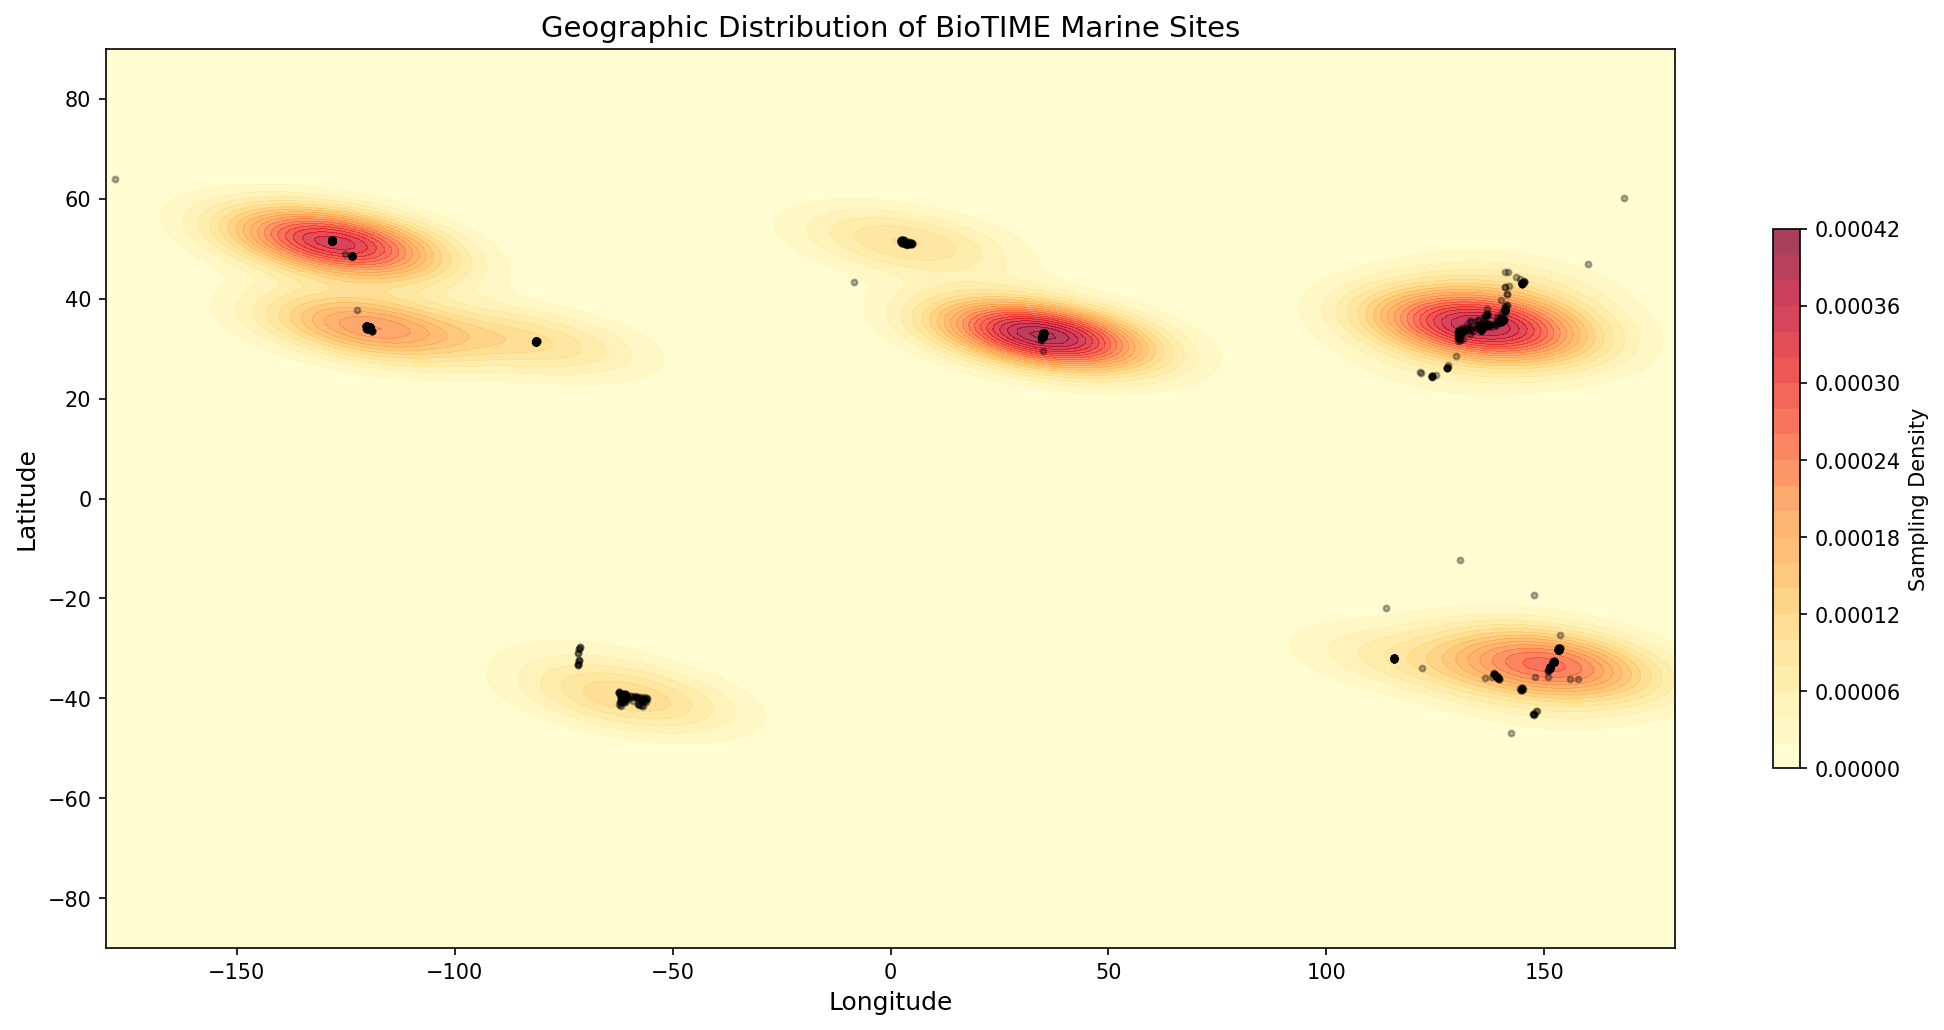
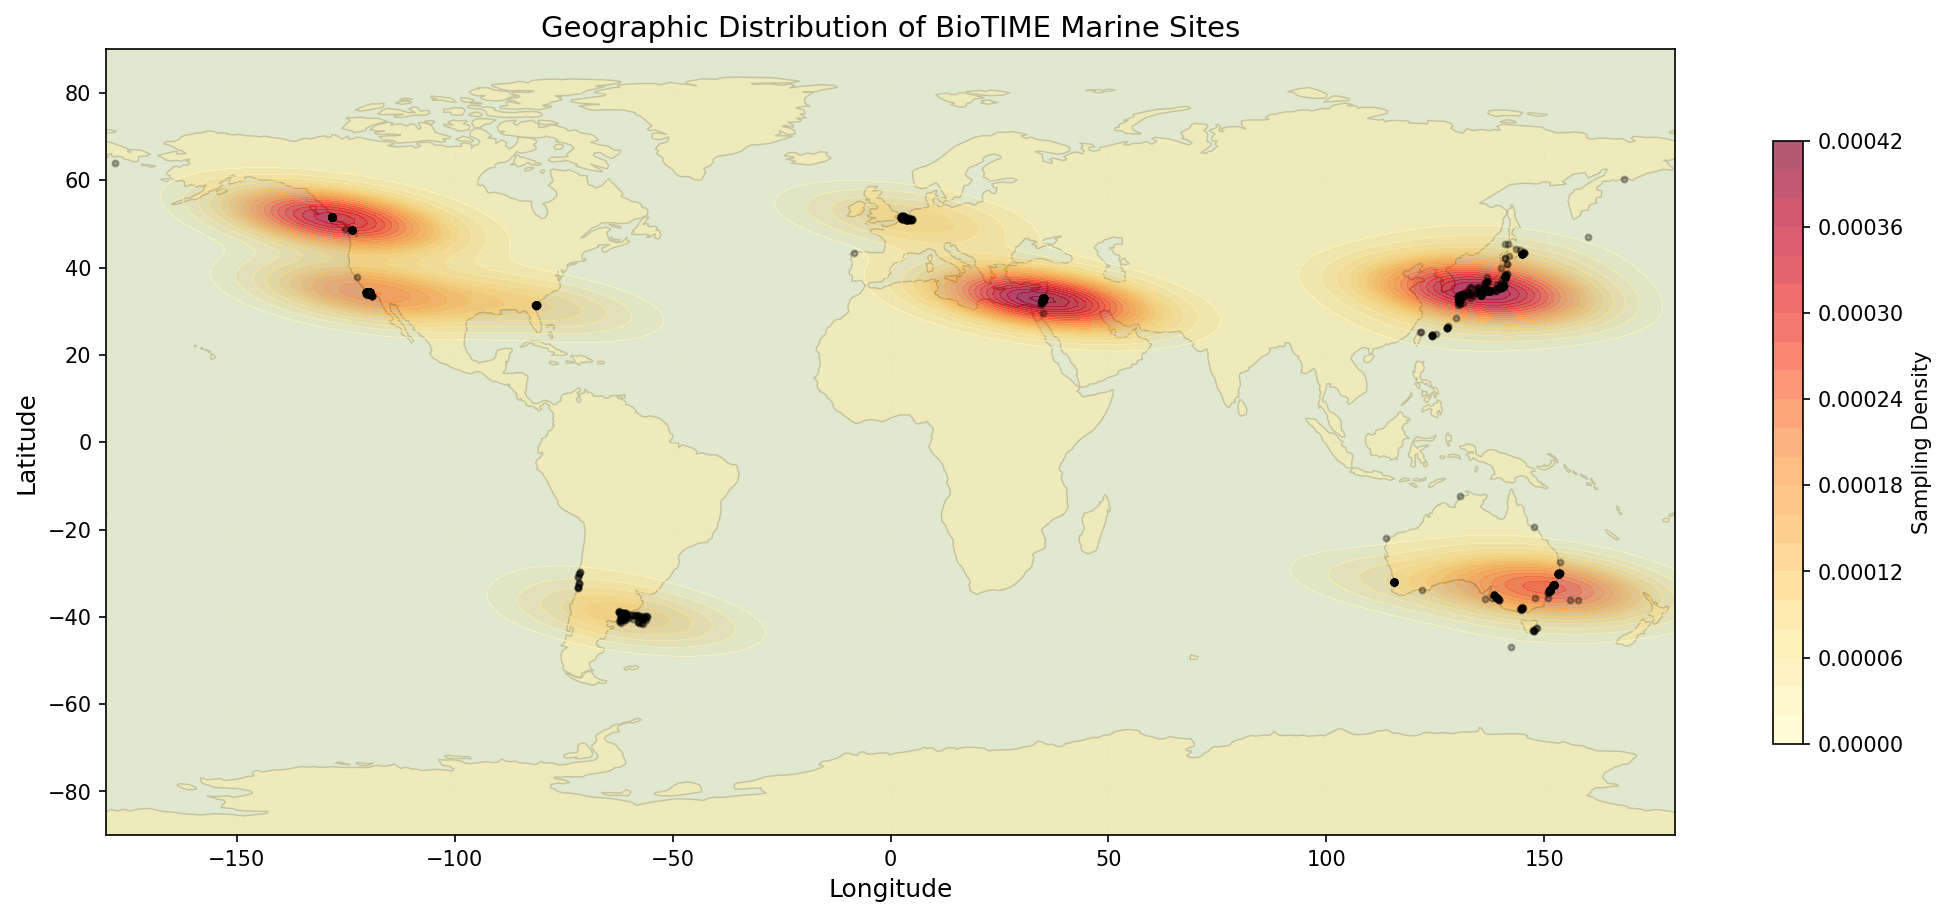
adding in heatmp

diff --git a/README.md b/README.md
@@ -22,6 +22,7 @@ Biodiversity-Predictors/
     Regression.ipynb      # Ridge, Lasso, Elastic Net
     GAMs.ipynb            # Generalized Additive Models
     all_forest.ipynb      # Decision Tree + Random Forest
+    heat_map.ipynb        # Geographic distribution heatmap
   data/
     raw/                  # immutable source files
     processed/            # cleaned, model-ready datasets
@@ -60,4 +61,4 @@ Outputs (plots, metrics) are written to `website-showcase/assets/plots/`.
 
 ## Dependencies
 
-Key packages: `scikit-learn`, `statsmodels`, `pygam`, `numpy`, `pandas`, `matplotlib`
+Key packages: `scikit-learn`, `statsmodels`, `numpy`, `pandas`, `matplotlib`, `scipy`, `geopandas`, `geodatasets`
